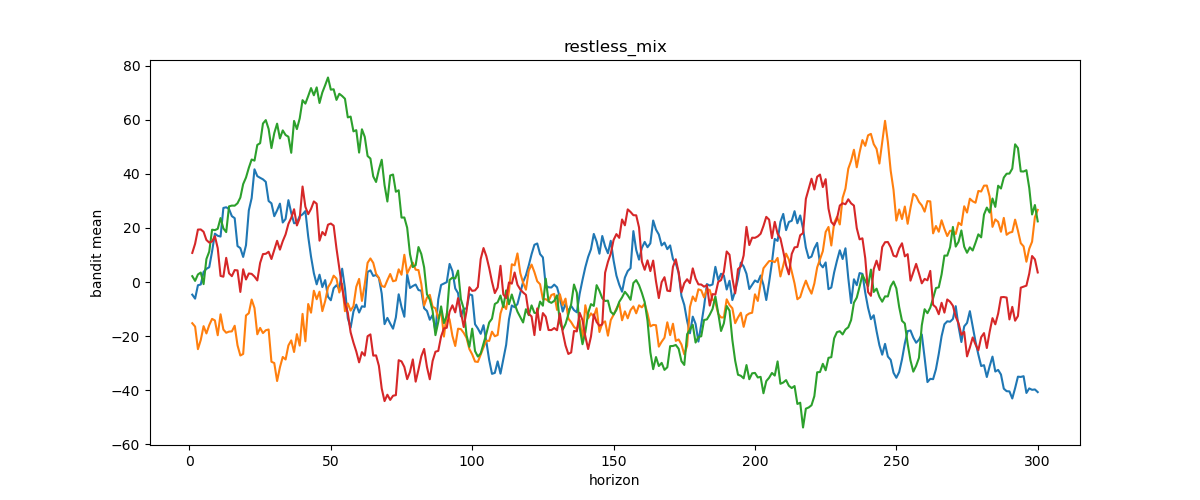
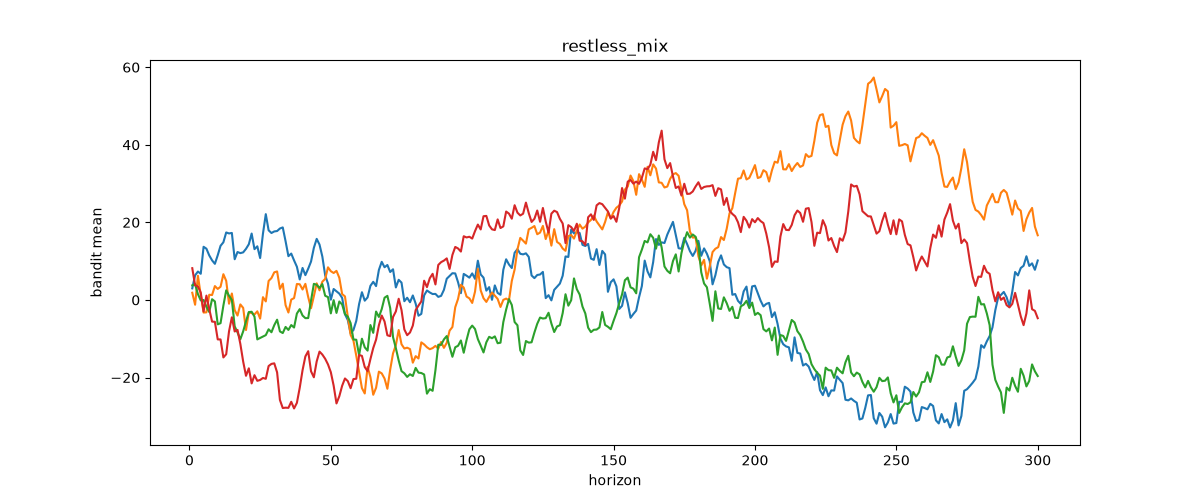
fix: generate restless envs with the drift the Kalman model assumes
The default restless process is now Daw et al. (2006):
mu' ~ N(lamb * mu + (1 - lamb) * theta, 2.8), with rewards drawn around
the current mean. The old process also fed the observation noise into
the drift (step SD 4.84 instead of 2.8), so the model's filter was
misspecified. `make_envs.py --process original` still rebuilds the old
environments exactly (as restless_envs_original).

README section 1 now describes this process and the pos/mix/neg centers.

diff --git a/src/bandit25/envs.py b/src/bandit25/envs.py
@@ -5,8 +5,8 @@ from bandit25.variable import Env, mean, env_name, noise, horizon
 lamb, noise_o, noise_d = 0.9836, 4, 2.8
 
 # Draws are made in the same order as the original envs.py (fb038da), so
-# torch.manual_seed(42); stationary(); restless() reproduces data/envs/*.
-# scripts/make_envs.py does exactly that.
+# torch.manual_seed(42); stationary(); restless("original") reproduces the
+# environments used before c165b65. scripts/make_envs.py seeds 42 the same way.
 
 # stationary, non-correlated
 def stationary() :
@@ -18,14 +18,14 @@ def stationary() :
     return stationary_noncor_envs
 
 
-def restless(process = "original") :
+def restless(process = "daw") :
     """
         Args:
             process (str) : how the bandit means drift
-                'original' : as in data/envs/restless_envs; the drift also takes the observation noise
-                    mu_post ~ N(mu_pre, noise_o),  mu_pre' ~ N(lamb * mu_post + (1 - lamb) * theta, noise_d)
-                'daw' : the process the Kalman model assumes (Daw et al., 2006)
+                'daw' : the process the Kalman model assumes (Daw et al., 2006), step SD noise_d = 2.8
                     mu_pre' ~ N(lamb * mu_pre + (1 - lamb) * theta, noise_d)
+                'original' : the environments used before; the drift also takes the observation noise (step SD ~4.8)
+                    mu_post ~ N(mu_pre, noise_o),  mu_pre' ~ N(lamb * mu_post + (1 - lamb) * theta, noise_d)
 
         Returns:
             (list) : restless_envs[i] holds 100 envs whose means drift around mean[i]; env.env is (300, 4)

diff --git a/scripts/make_envs.py b/scripts/make_envs.py
@@ -8,12 +8,12 @@ import matplotlib.pyplot as plt
 from bandit25.envs import stationary, restless
 
 parser = argparse.ArgumentParser(description="Generate data/envs/* and the sample env figures")
-parser.add_argument("--process", choices=["original", "daw"], default="original",
+parser.add_argument("--process", choices=["daw", "original"], default="daw",
                     help="restless drift process, see bandit25.envs.restless")
 args = parser.parse_args()
-suffix = "" if args.process == "original" else f"_{args.process}"
+suffix = "" if args.process == "daw" else f"_{args.process}"
 
-# same seed and order as the original envs.py, so the files match the ones already in use
+# same seed and order as the original envs.py; --process original rebuilds the old environments
 torch.manual_seed(42)
 stationary_noncor_envs = stationary()
 restless_envs = restless(args.process)

diff --git a/README.md b/README.md
@@ -1,8 +1,8 @@
 ## 1.	Task
 We use four-armed bandit task with 300 times of selection. Each bandit faces a decaying random walk as follows:
 
-$\mu_{i,t}^{post} = N(\mu_{i,t}^{pre}, \sigma_o), \quad \mu_{i,t}^{pre}=\lambda\cdot\mu_{i,t}^{post}+(1-\lambda)\cdot\varphi + \nu$ with $\nu\sim N(0,\sigma_D)$.
-The reward of bandit i at step t is randomly sampled from $\mu_{i,t}^{pre}$ with standard derivation $\sigma_o$. From the reward, next $\mu_{i,t}^{pre}$ is determined with decaying parameter $\lambda$, decaying center $\varphi$ and random walk $\nu$. We use predetermined value from previous studies; $\lambda=0.9836,\varphi=50,\sigma_o=4, \sigma_D=2.8$. To check prospect theory, initial bandit’s mean $\mu_{i,t}^{pre}$ is randomly sampled from $N(0,10)$.
+$\mu_{i,t+1}=\lambda\cdot\mu_{i,t}+(1-\lambda)\cdot\varphi + \nu$ with $\nu\sim N(0,\sigma_D)$, and the reward $r_t \sim N(\mu_{c_t,t}, \sigma_o)$.
+The reward of the chosen bandit is sampled around its current mean with standard deviation $\sigma_o$, and every mean decays toward the center $\varphi$ with decaying parameter $\lambda$ plus the random walk $\nu$ (Daw et al., 2006), which is exactly what the Kalman filter below assumes. We use predetermined value from previous studies; $\lambda=0.9836,\sigma_o=4, \sigma_D=2.8$. To check prospect theory, the centers are $\varphi = 100, 0, -100$ (`pos`, `mix`, `neg`) and the initial means are sampled from $N(\varphi,10)$; the recovery scripts use the `mix` environments.
 
 <img width="1200" height="500" alt="Image" src="https://github.com/user-attachments/assets/9765887e-f2c7-43b2-9551-fe909464f7ec" />
 
@@ -65,13 +65,13 @@ $\lambda_{env}$, $\theta_{env}$ (the decay center, $\varphi$ in §1), $\sigma_o$
 Install once with `pip install -e .`, then run scripts from the repository root:
 
 ```bash
-python scripts/make_envs.py                               # data/envs/ (seed 42, same draws as the original envs.py)
+python scripts/make_envs.py                               # data/envs/ (seed 42)
 python scripts/recovery/vectorized_parameter_recovery.py  # needs data/envs/restless_envs
 python scripts/recovery/vectorized_visualize.py
 python scripts/loss_sanity/loss_sanity.py theta           # any free parameter; --grid 50 by default
 pytest
 ```
 
-`python scripts/make_envs.py --process daw` writes `data/envs/restless_envs_daw` instead, whose means drift
-as the Kalman model assumes ($\mu' \sim N(\lambda_{env}\mu + (1-\lambda_{env})\theta_{env}, \sigma_D)$). In the default
-(original) environments the drift also takes the observation noise, so its step SD is about 4.8 rather than $\sigma_D = 2.8$.
+`python scripts/make_envs.py --process original` writes `data/envs/restless_envs_original` instead: the environments
+used before c165b65 (same draws as the original envs.py), where the drift also takes the observation noise, so its
+step SD is about 4.8 rather than $\sigma_D = 2.8$.
